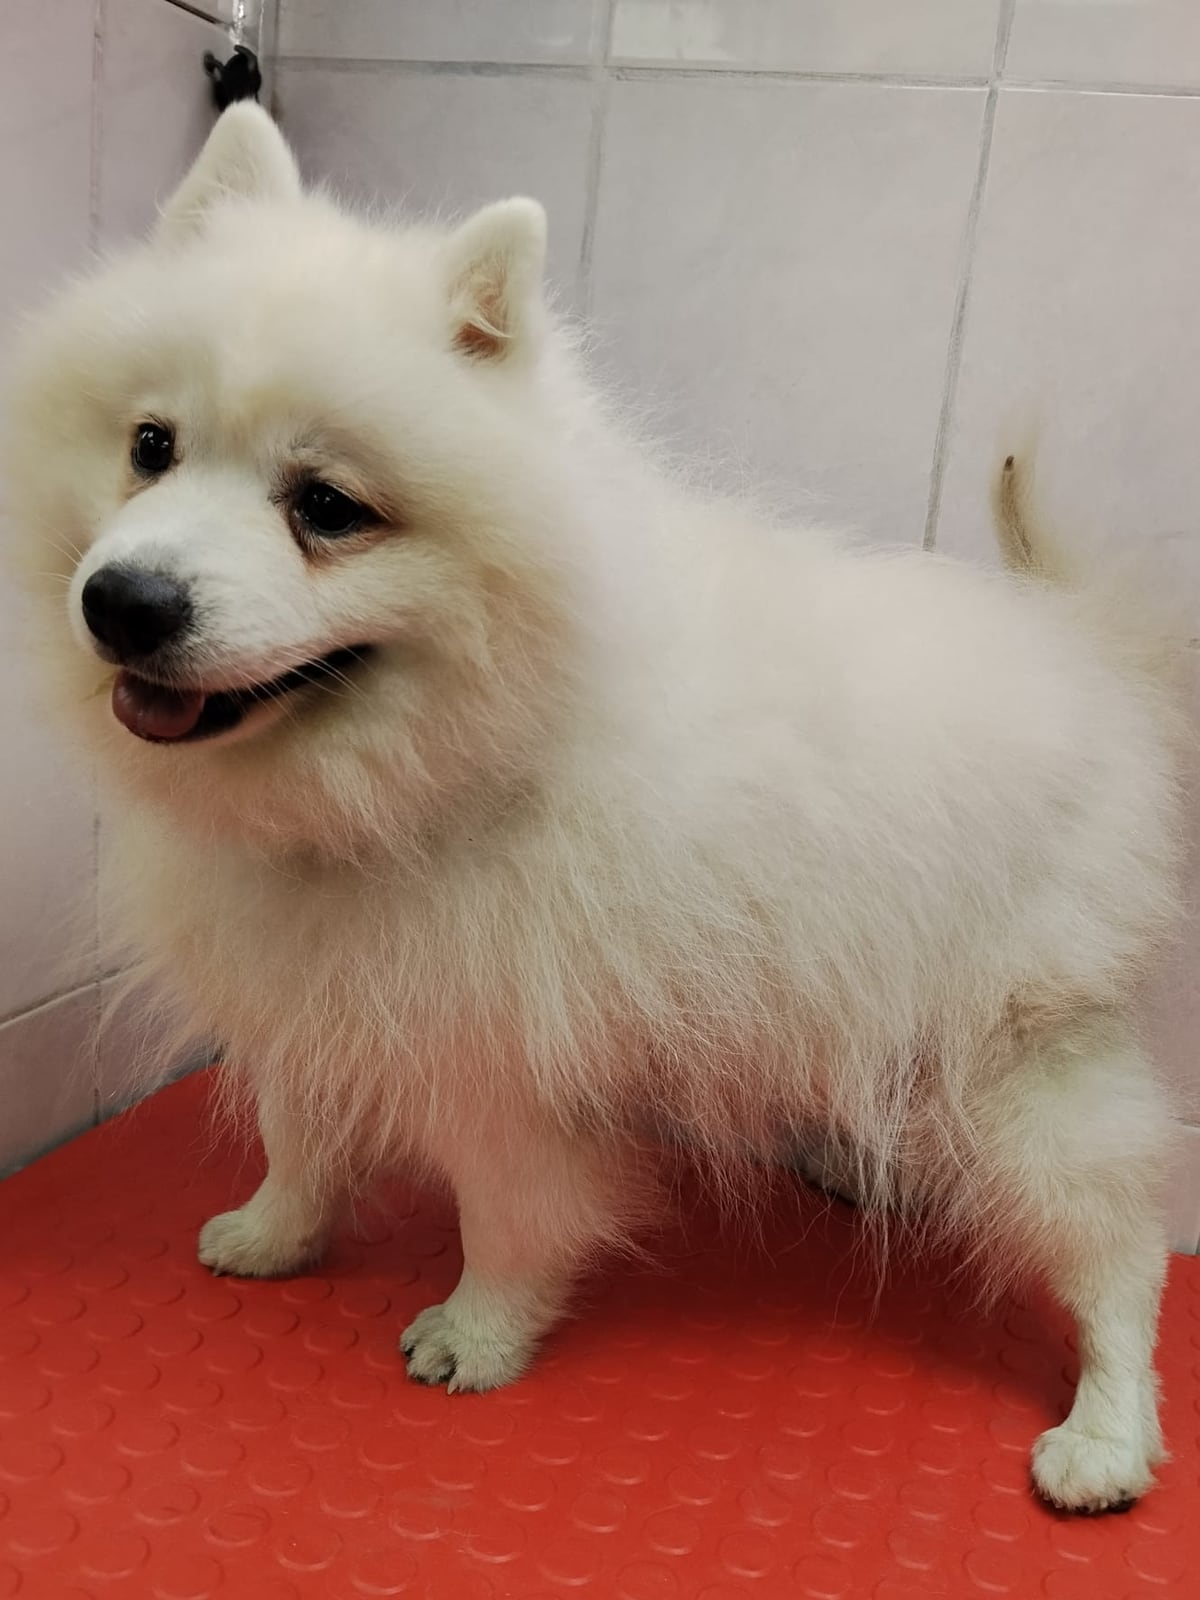
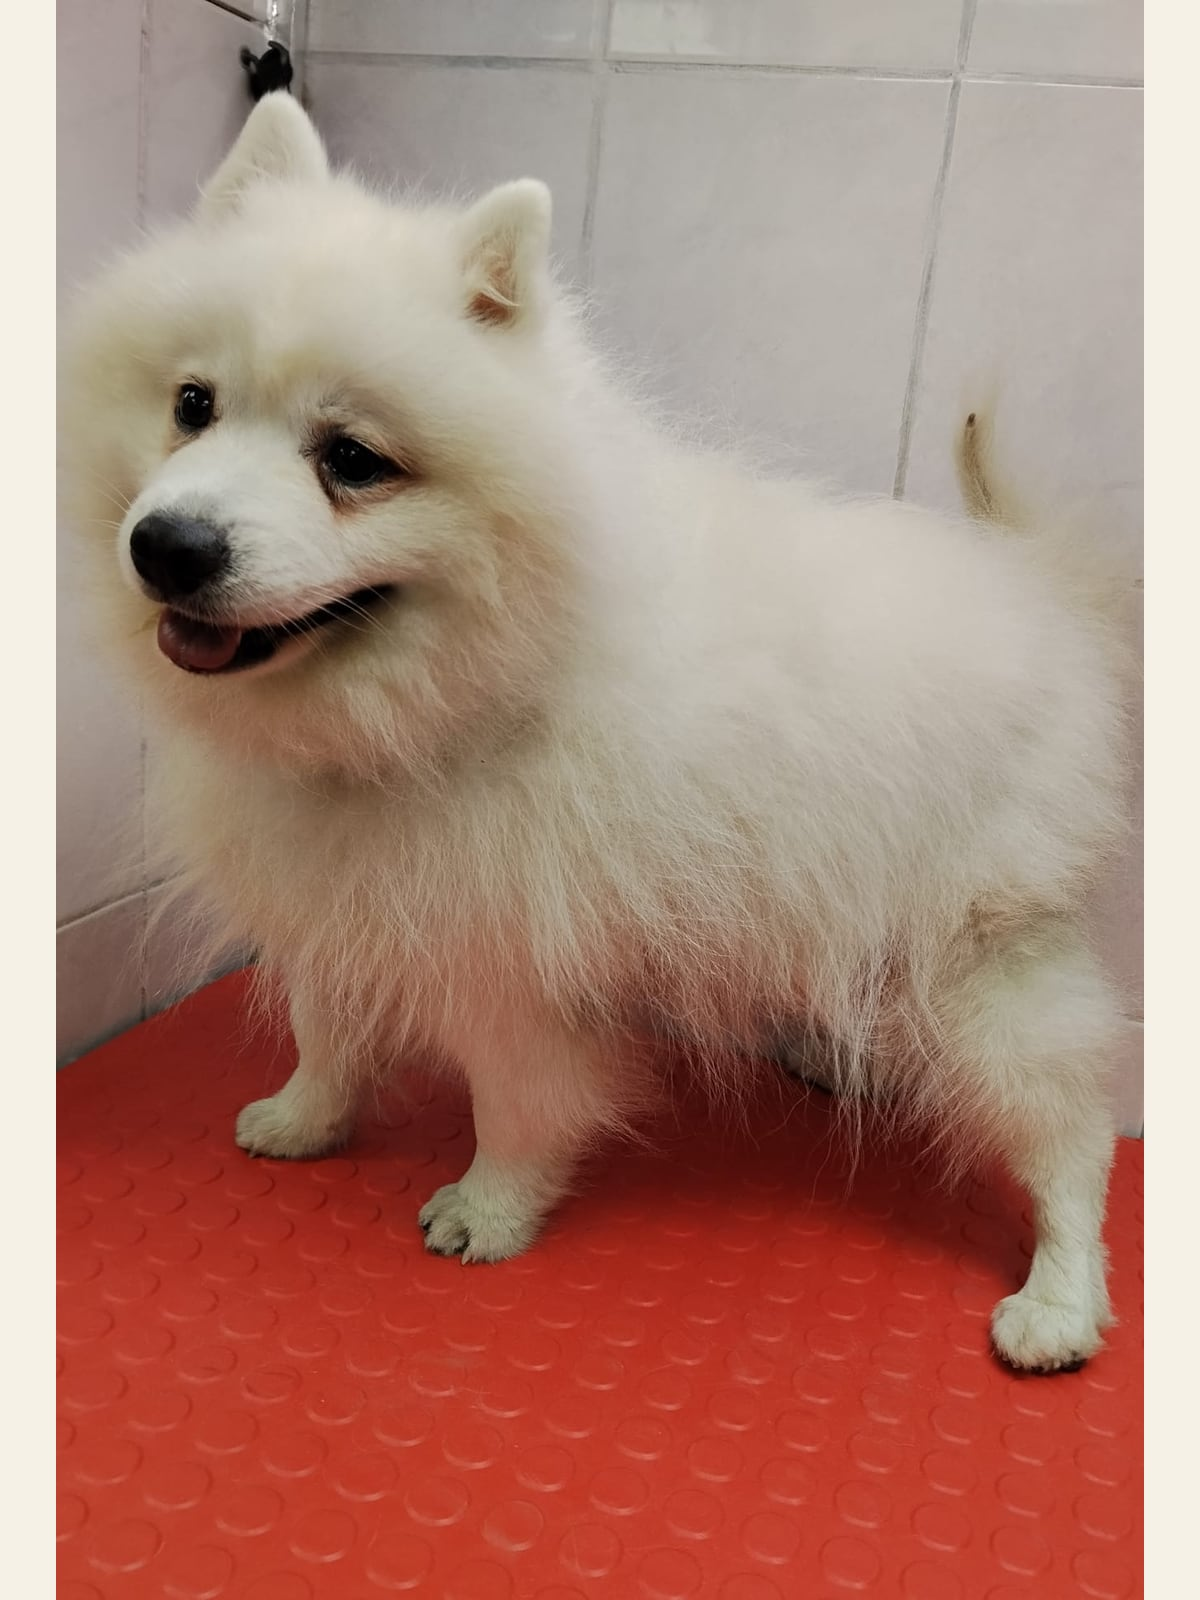
gallery safe padding export

diff --git a/README.md b/README.md
@@ -100,7 +100,7 @@ Všetky cesty sú v data súboroch — **neprepisuj komponenty**. Stačí súbor
 2. Nahrať ich do `raw/gallery/` v rôznych vstupných formátoch (`.jpg`, `.jpeg`, `.png`, `.webp`, `.avif`).
 3. Pri `npm run build` sa automaticky spustí `scripts/process-gallery.mjs`, ktorý:
    - zjednotí orientáciu,
-   - oreže každý obrázok na `3:4`,
+   - zabalí každý obrázok do `3:4` canvasu bez agresívneho cropu,
    - exportuje finálne súbory do `public/images/galeria/` ako `.jpeg`.
 4. V `data/gallery.ts` je iba poradie a text, nie spracovanie obrázkov.
 
@@ -110,7 +110,7 @@ Všetky cesty sú v data súboroch — **neprepisuj komponenty**. Stačí súbor
 
 To vytvorí `id: '04'`, `before: '/images/galeria/04-before.jpeg'`, `after: '/images/galeria/04-after.jpeg'`.
 
-Odporúčaný finálny formát pre web je `3:4`, lebo je o niečo bezpečnejší pre uši, labky a dlhé chlpy než tesnejší crop.
+Odporúčaný finálny formát pre web je `3:4` canvas s paddingom, lebo je bezpečnejší pre uši, labky a dlhé chlpy než tesný crop.
 
 **Poradie v galérii = poradie v poli.** Presun položky hore/dole = zmena poradia na webe. Číslo v názve súboru je len pre prehľadnosť v priečinku.
 